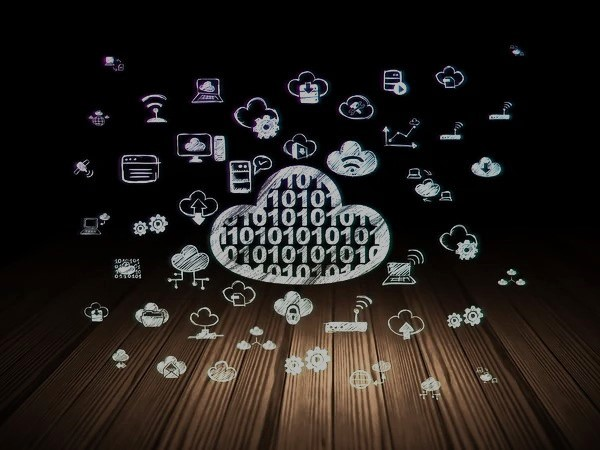
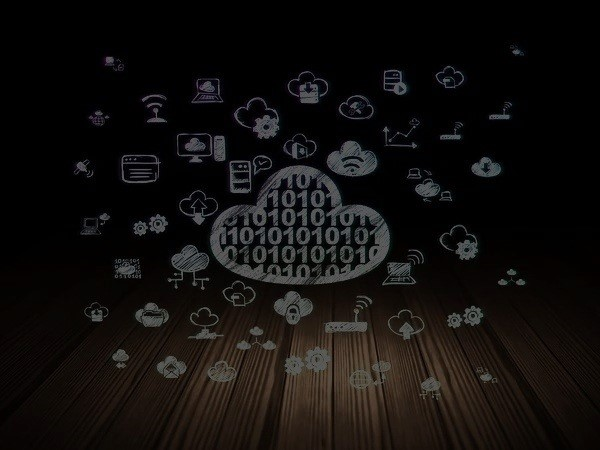
q

diff --git a/style.css b/style.css
@@ -163,11 +163,6 @@ p {
     height: 73vh;
     border-radius: 20px;
     margin-top: 20px;
-   
-    background-image: url(img/picture.png);
-    background-repeat: no-repeat;
-    background-position: bottom right;
-    background-size: 65%;
     margin-left: 20px;
     box-shadow: 1px 1px 15px black;
 }
@@ -199,7 +194,7 @@ p {
     margin-left: 16px;
     margin-top: 40px;
     box-shadow: 1px 1px 100px black;
-    font-weight: bold;
+    font-weight: normal;
 }
 #redes:hover{
     background-color: gold;
@@ -265,9 +260,18 @@ h4 {
         font-size: 82%;
       
     }
+    picture > img  {
+        position: absolute;
+        width: 40%;
+        height: 30%;
+        top: 60%;
+        left:70%;
+    }
+
     .facebook,  .insta,  .git, .gmail {
         width: 42%;
         height: 7vh;
+        position: relative;
     }
 
 }   
@@ -310,13 +314,13 @@ body {
     }
 
     .about > .op > p {
-        font-size: 62%;
+        font-size: 60%;
 
     }
 
     .quadro {
 
-        padding-top: 200px;
+        padding-top: 230px;
         position: absolute;
         
     }
@@ -350,13 +354,25 @@ body {
     .social {
 
         width: 100%;
-        height: 73vh;
+        height: 50%;
         margin-top: 20px;
         margin-left: 20px;
         padding: 25px;
+       
 
     }
-    
+    picture > img  {
+        position: absolute;
+        width: 80%;
+        height: 30%;
+        top: 70%;
+        left: 30%;
+       
+    }
+    #container {
+     
+    }
+
     #redes > a > p {
         
         font-size: 75%;
@@ -365,6 +381,7 @@ body {
     .facebook,  .insta,  .git, .gmail {
         width: 48%;
         height: 7vh;
+        position: relative;
     }
     
 }

diff --git a/index.html b/index.html
@@ -42,7 +42,9 @@
             </div>
             <div id="container">
                 <div class="social">
-                    <h4>Contate-nos!</h4>
+                        <picture>
+                        <img  src="img/picture.png" alt="computador-mulher">   
+                        </picture>           <h4>Contate-nos!</h4>
                     <div class="gmail" id="redes"> 
                         <a href="" target="_blank">
                             <p>
